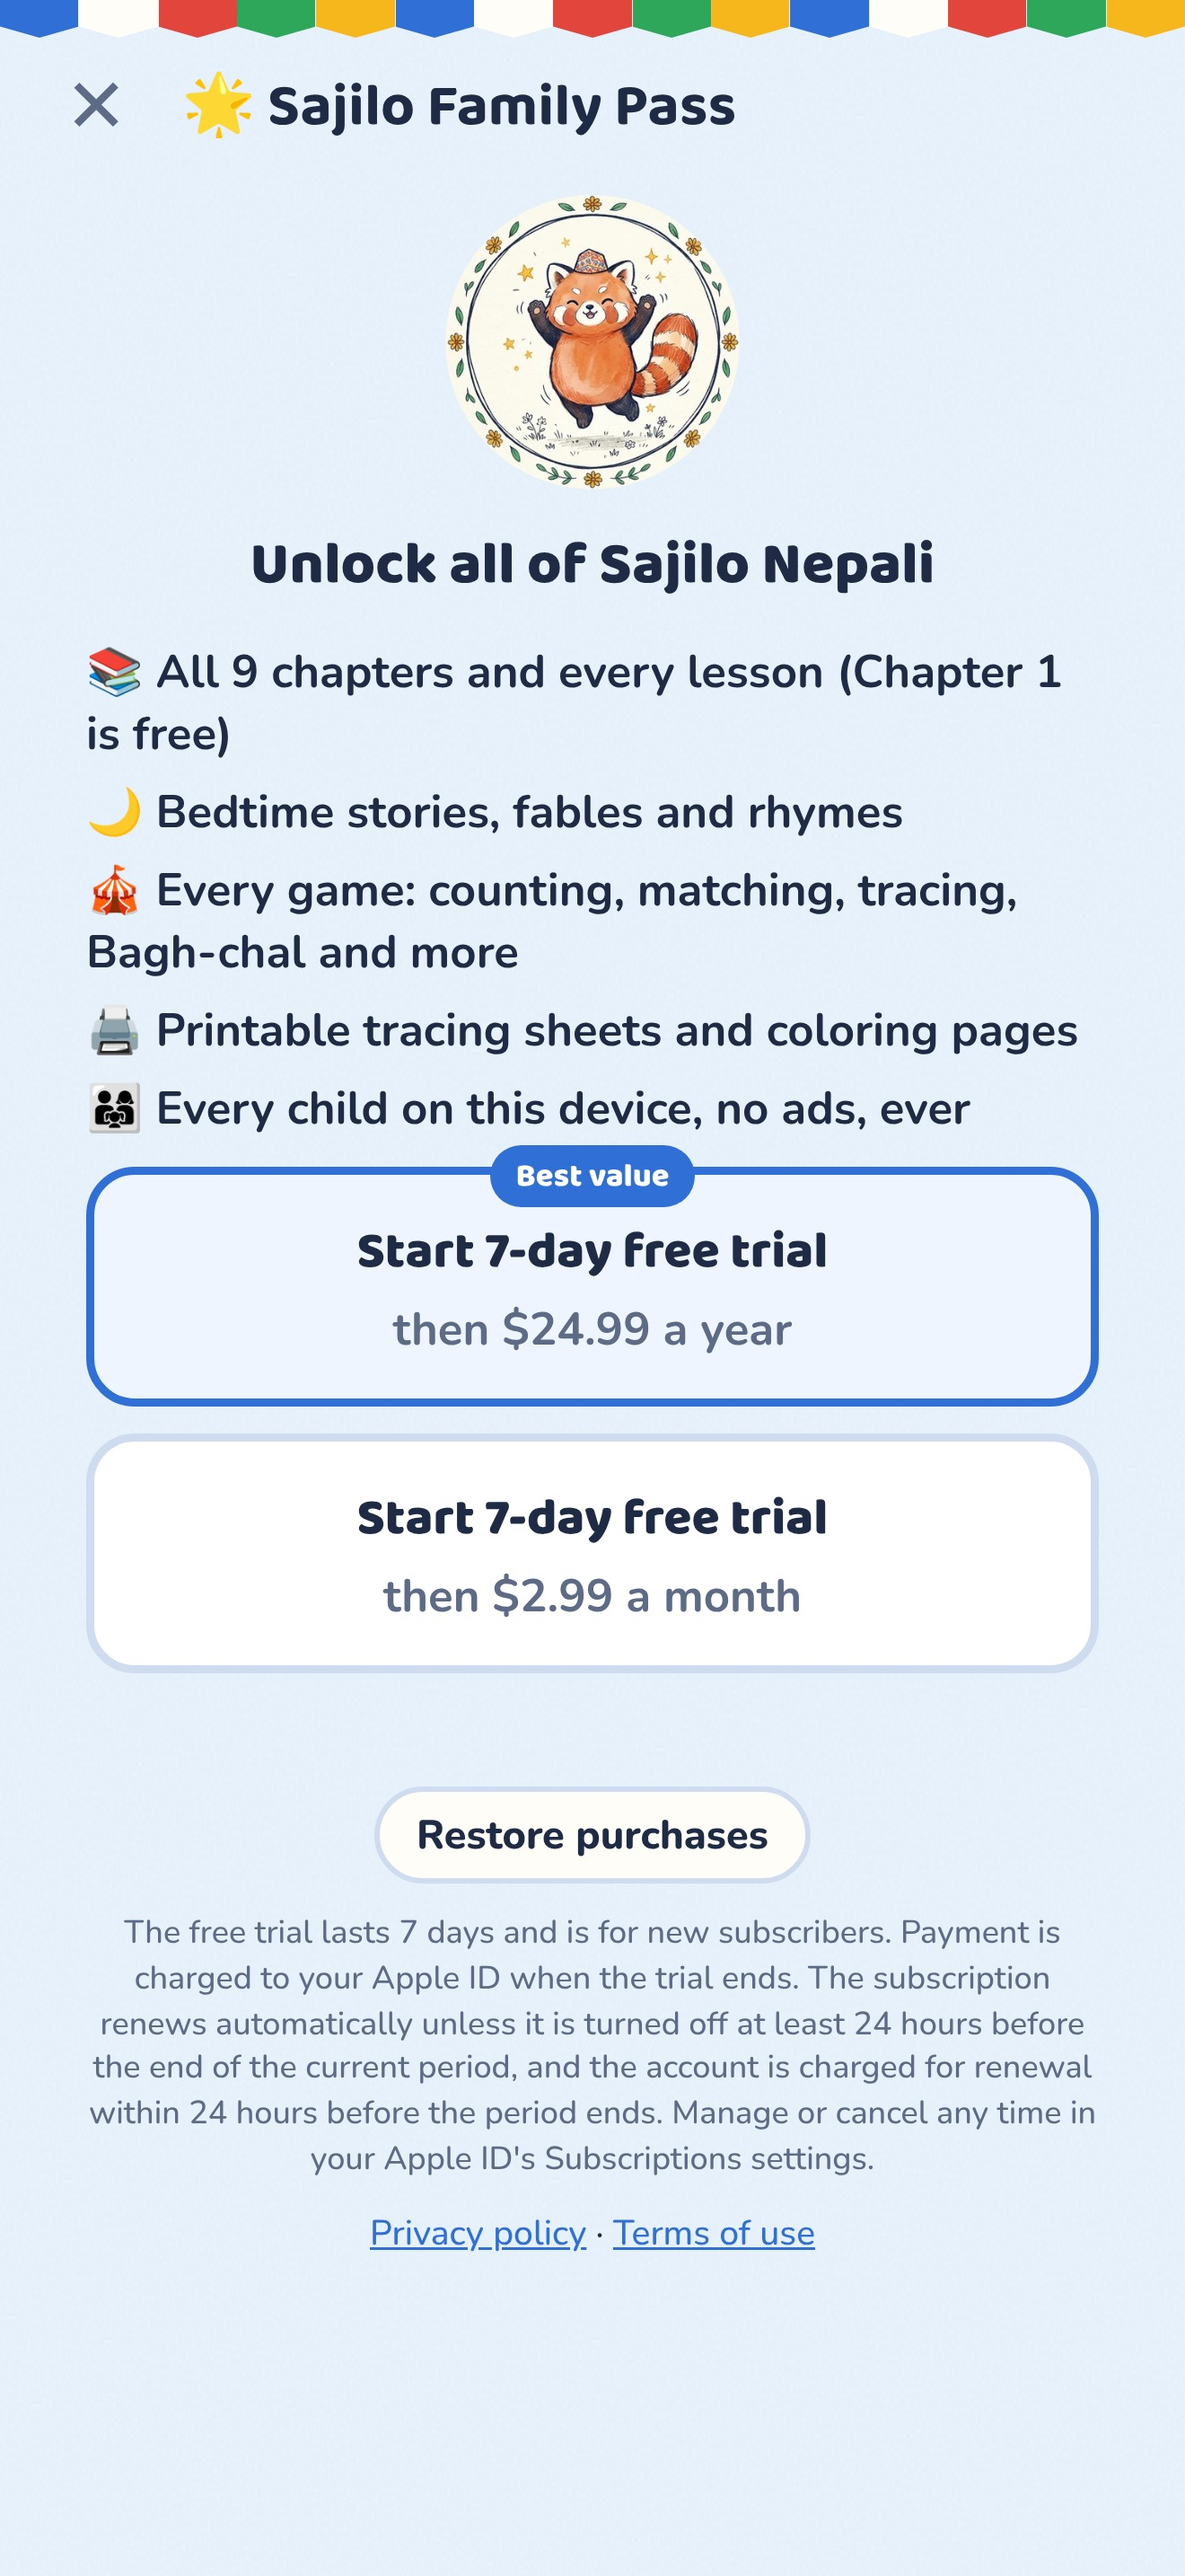
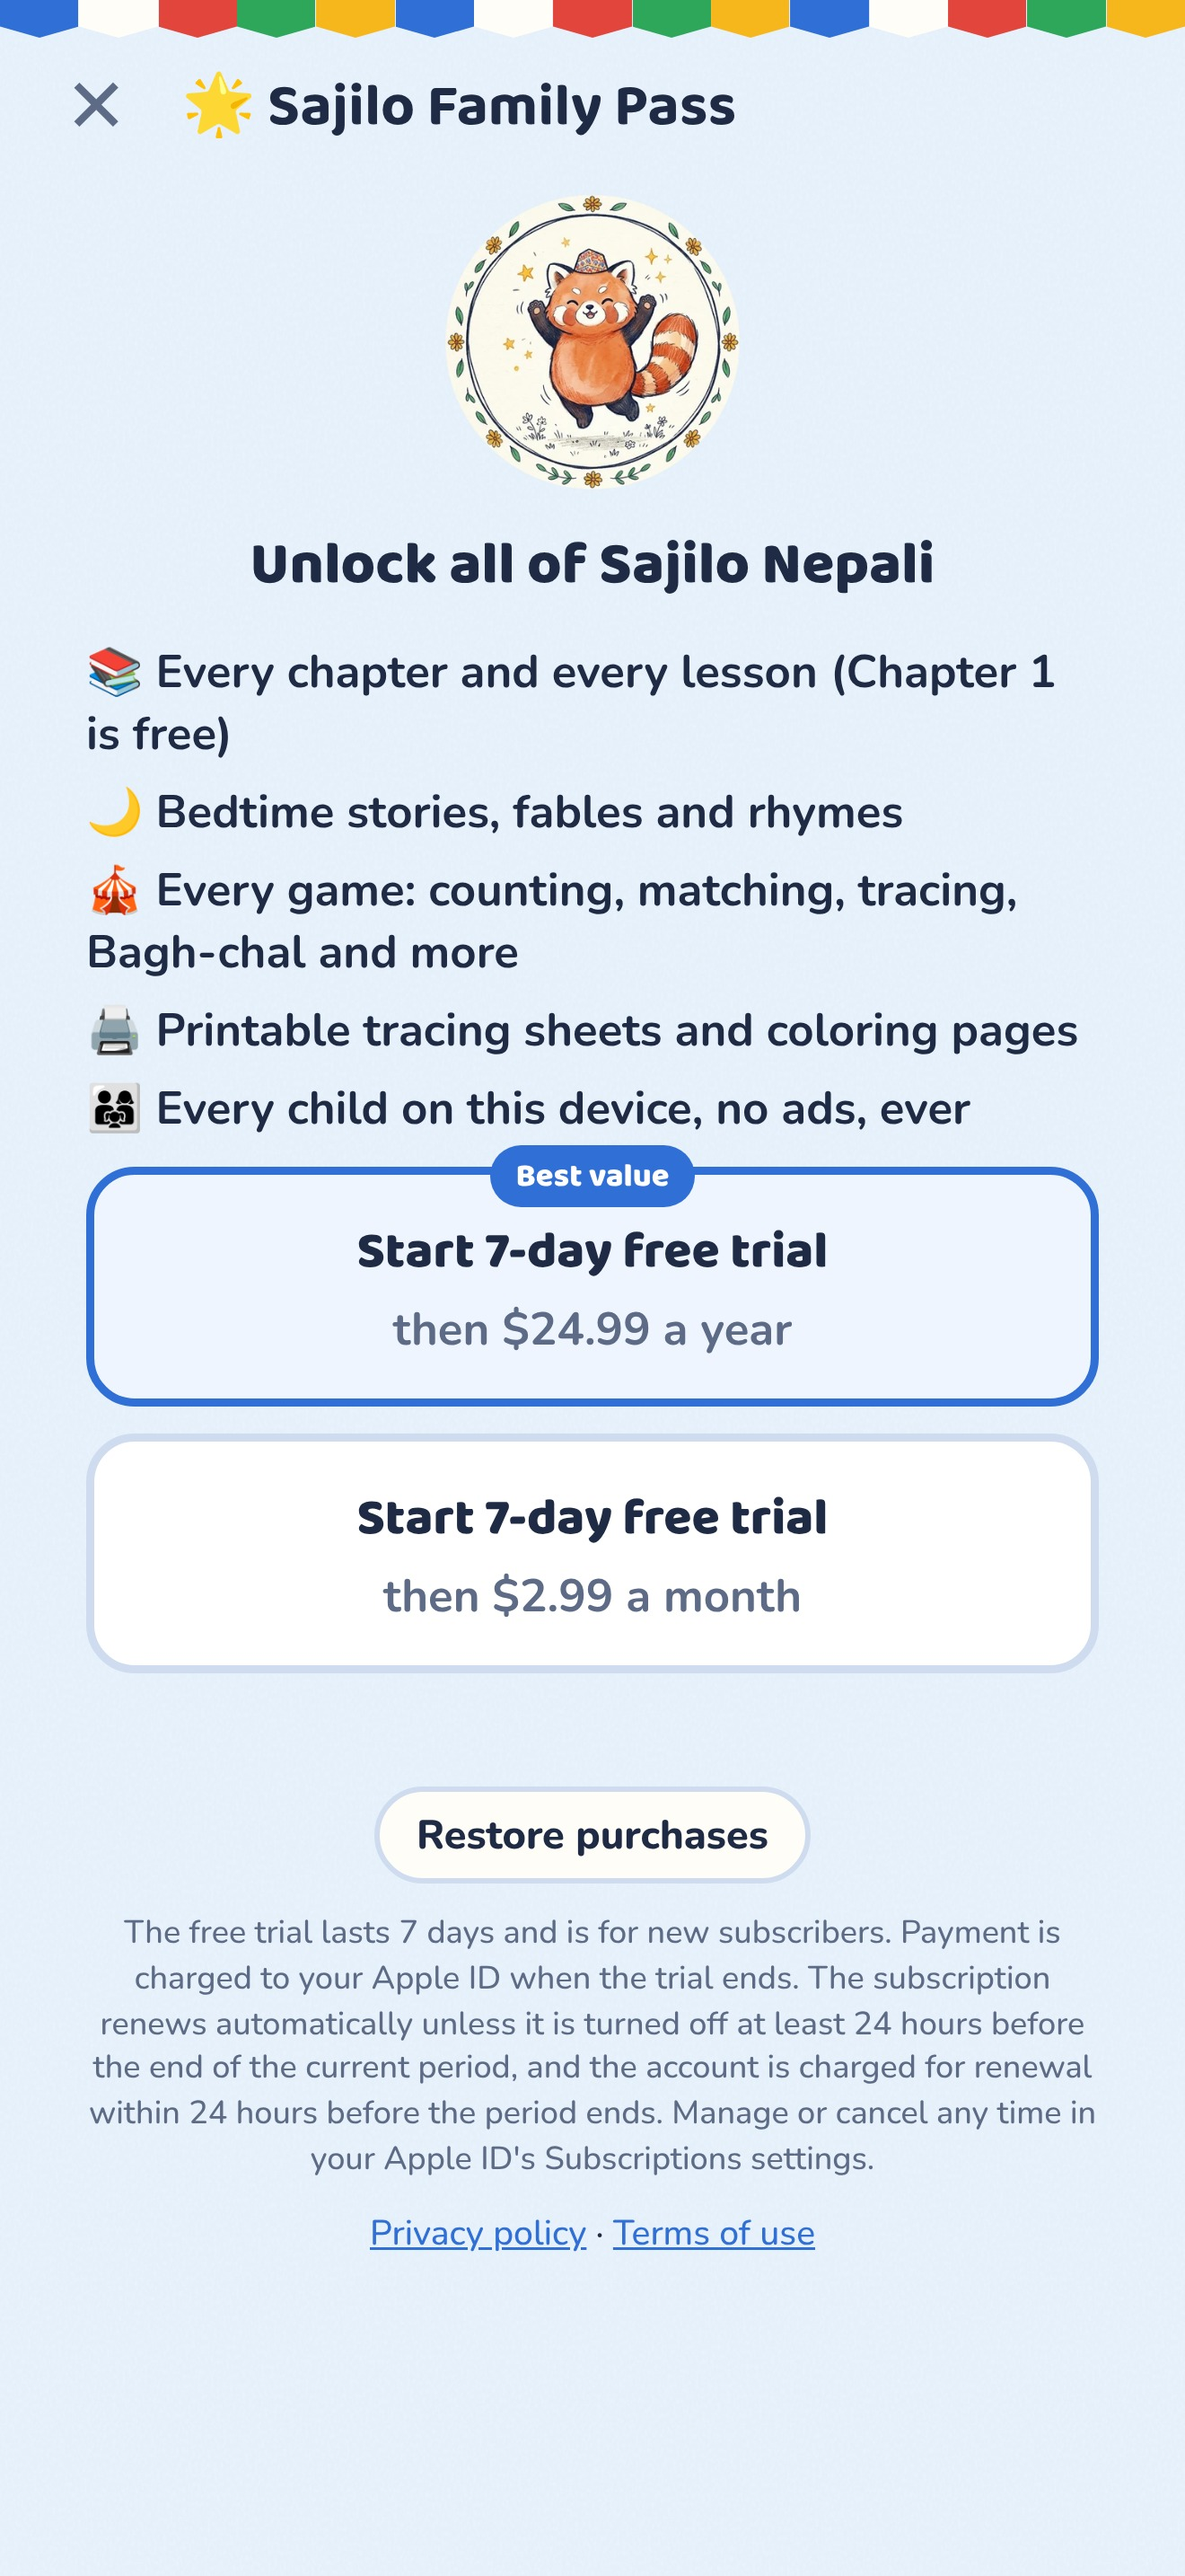
Family Pass screen: 'Every chapter and every lesson' instead of 'All 9 chapters'; review screenshot redone
Claude-Session: https://claude.ai/code/session_01A6cqvukmGzNfd7ELHZfxac

Changed region(s): [[0.1242, 0.2483, 0.9008, 0.2793]]

diff --git a/public/index.html b/public/index.html
@@ -1955,7 +1955,7 @@ function renderPass() {
     <section class="pass">
       ${pandu("cheer", "pass-pandu")}
       ${hasPass() ? `<p class="pass-h">You have the Family Pass. Thank you! 💛</p>` : `<p class="pass-h">Unlock all of Sajilo Nepali</p>`}
-      <ul class="pass-list"><li>📚 All 9 chapters and every lesson (Chapter 1 is free)</li><li>🌙 Bedtime stories, fables and rhymes</li>
+      <ul class="pass-list"><li>📚 Every chapter and every lesson (Chapter 1 is free)</li><li>🌙 Bedtime stories, fables and rhymes</li>
         <li>🎪 Every game: counting, matching, tracing, Bagh-chal and more</li><li>🖨 Printable tracing sheets and coloring pages</li><li>👨👩👧 Every child on this device, no ads, ever</li></ul>
       ${hasPass() ? "" : passProducts == null ? `<p class="note">Loading prices from the App Store…</p>` : ready ? `<div class="pass-plans">${plan("yearly", true)}${plan("monthly")}</div>`
         : `<p class="note">The App Store can't be reached right now. Please check the internet connection.</p><button class="chip" type="button" id="passRetry">↻ Try again</button>`}
